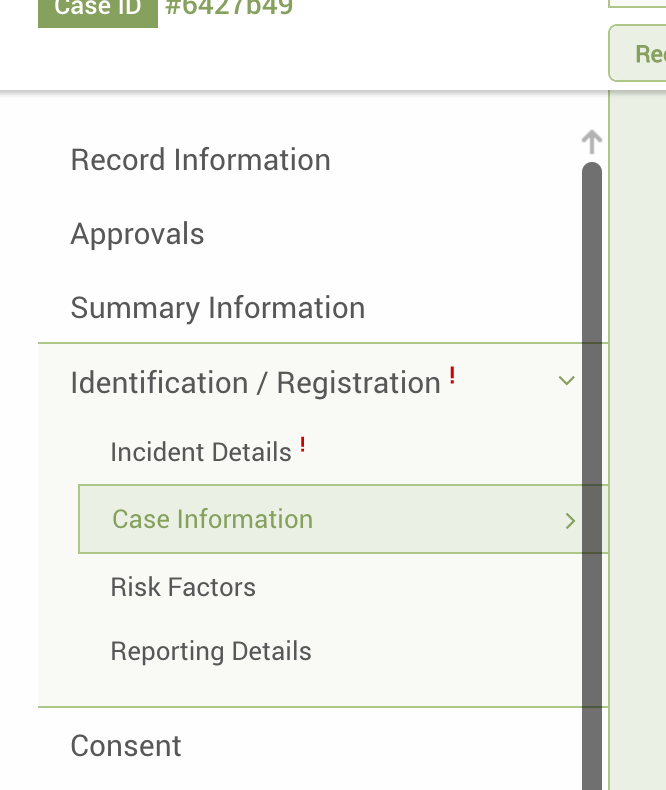
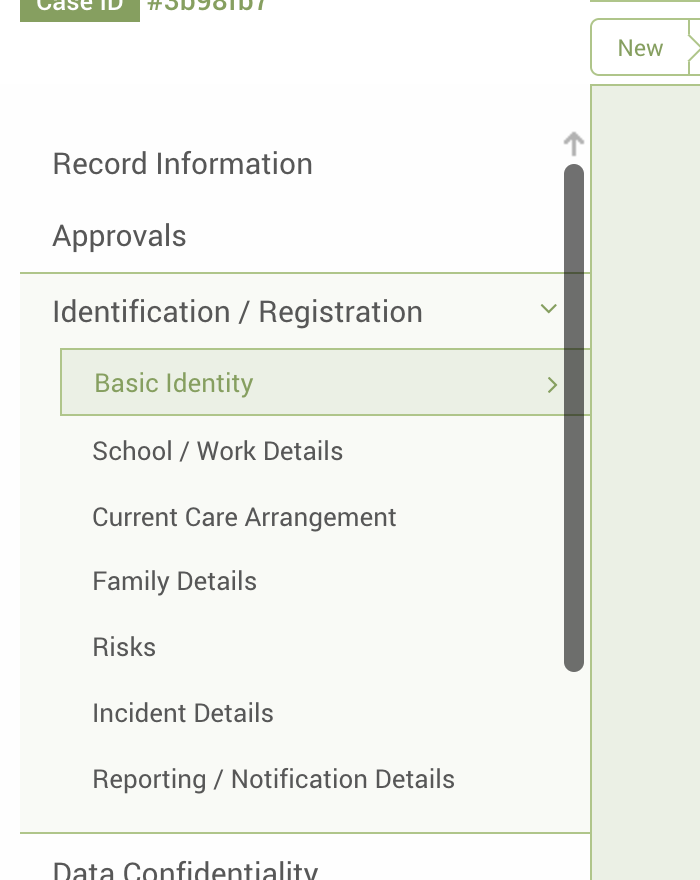
LB-165: Removed old reference to 'Case Information' form.

diff --git a/UsersGuide.md b/UsersGuide.md
@@ -327,7 +327,7 @@ Once you are creating or editing a record, you will see a navigation list in the
 
 ![](img/image44.png)
 
-If a Form Group has only one form, you can simply click on it and it will populate the form. If it has more than one, you can click on the Form Group name or the expand icon to the right of the name to expand it and see all the forms in the group. Once expanded you can then click on any of the form names to enter into the chosen form. For example, in the image above, the user has selected the **Identification / Registration** form group and the **Case Information** form.
+If a Form Group has only one form, you can simply click on it and it will populate the form. If it has more than one, you can click on the Form Group name or the expand icon to the right of the name to expand it and see all the forms in the group. Once expanded you can then click on any of the form names to enter into the chosen form. For example, in the image above, the user has selected the **Identification / Registration** form group and the **Basic Identity** form.
 
 ## Navigating Sub-Forms
 
